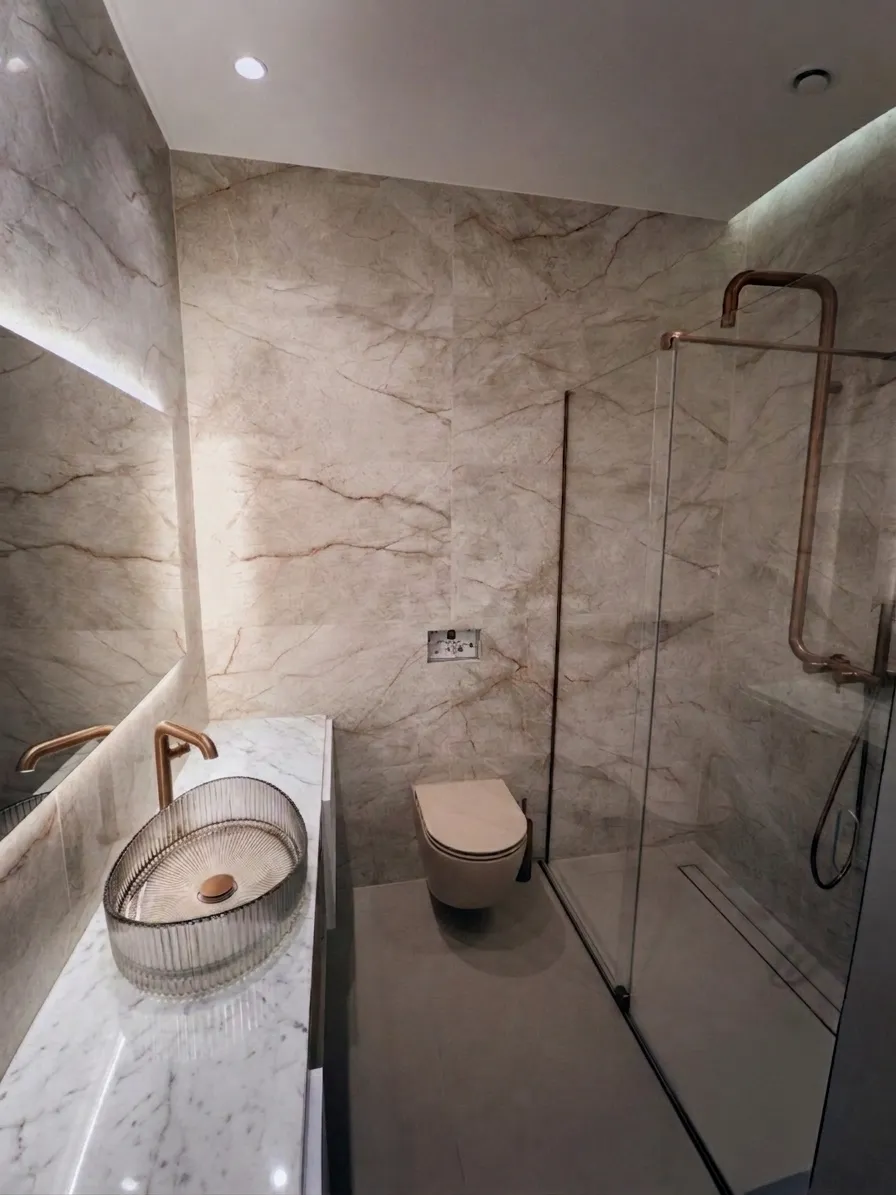
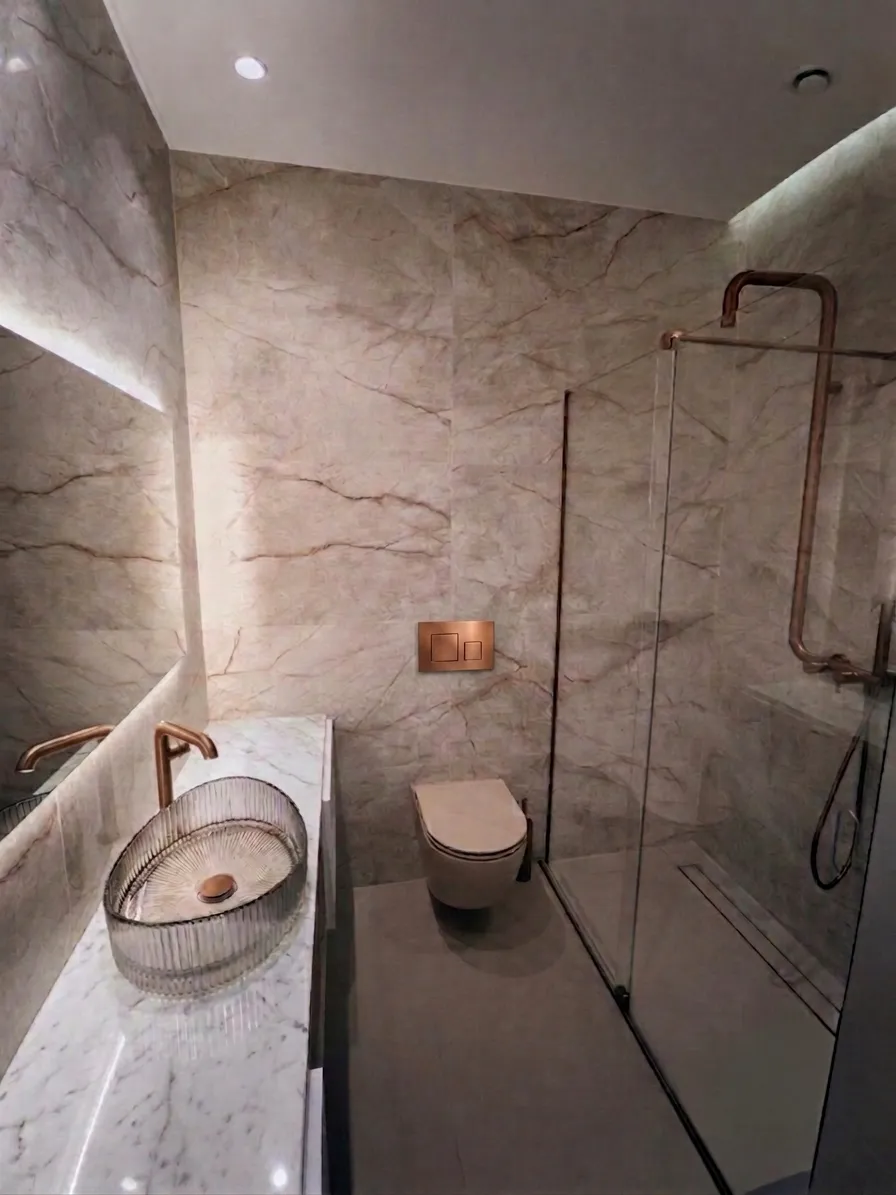
Update bathroom and sensory architecture photos

Changed region(s): [[0.4375, 0.4954, 0.5938, 0.5883], [0.125, 0.7121, 0.1875, 0.7741]]

diff --git a/src/app/page.tsx b/src/app/page.tsx
@@ -270,7 +270,7 @@ export default function Home() {
                 { text: 'Microclimate', description: 'Precision temperature control across four independent zones for personalized comfort.', image: '/LuminaLiving/assets/feature_microclimate_1782852308980.webp' },
                 { text: 'Acoustic Envelope', description: 'Acoustic-grade, multi-layered glass ensuring absolute tranquility and thermal perfection.', image: '/LuminaLiving/assets/feature_acoustic_envelope_1782852327696.webp' },
                 { text: 'Light Orchestration', description: 'Motorized blackout drapery paired with delicate light-filtering sheers for effortless mood lighting.', image: '/LuminaLiving/assets/lightorchestration.webp' },
-                { text: 'Sensory Architecture', description: 'Intuitive environmental architecture that seamlessly adapts to your presence and preferences.', image: '/LuminaLiving/assets/Propertyphotooutside1.webp' }
+                { text: 'Sensory Architecture', description: 'Intuitive environmental architecture that seamlessly adapts to your presence and preferences.', image: '/LuminaLiving/assets/sensoryarchitecture.webp' }
               ]} 
             />
           </div>

diff --git a/public/script.js b/public/script.js
@@ -7,7 +7,6 @@
 window.initSiteAnimations = () => {
     gsap.registerPlugin(ScrollTrigger);
     ScrollTrigger.config({ ignoreMobileResize: true });
-    ScrollTrigger.normalizeScroll(true);
 
     // Register ScrollToPlugin if available
     if (typeof ScrollToPlugin !== 'undefined') {